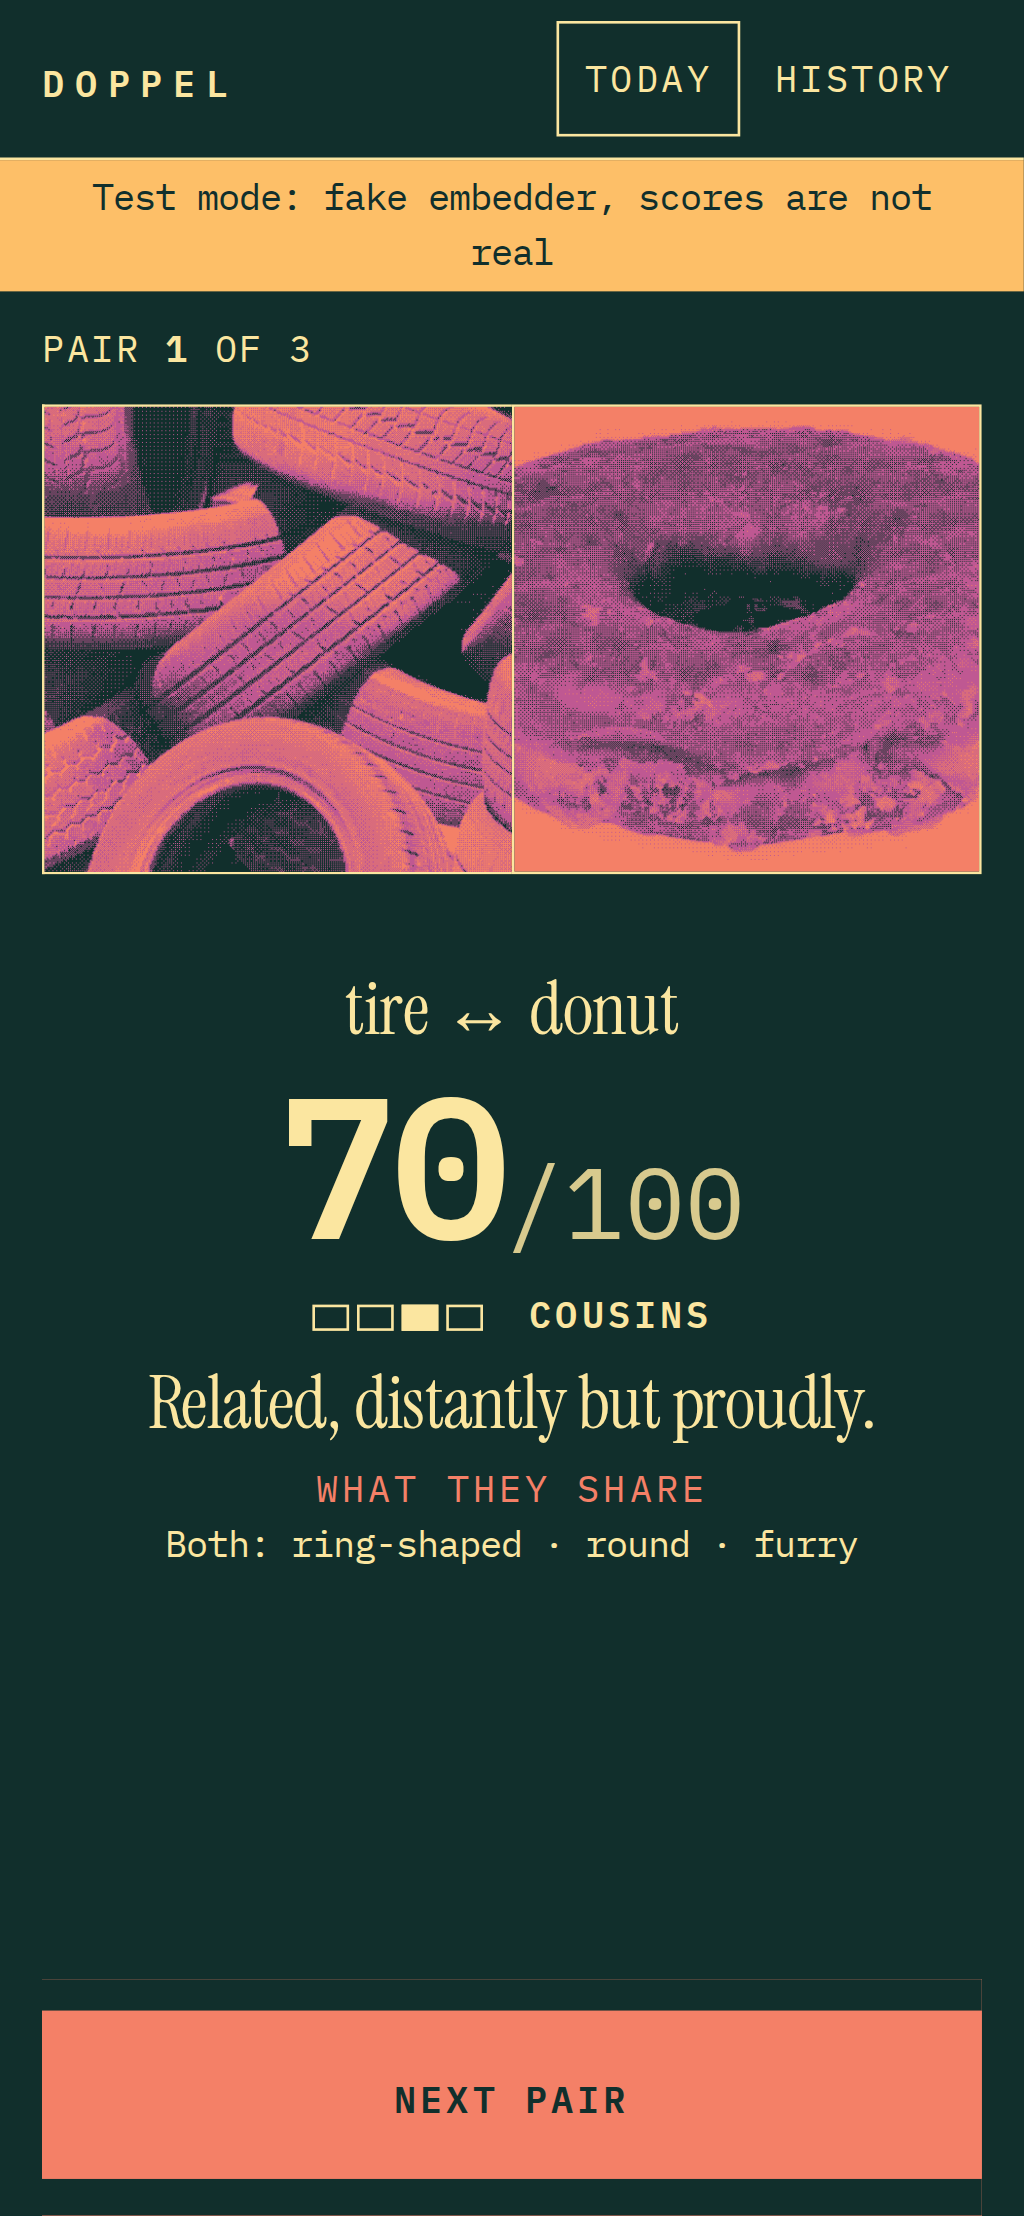
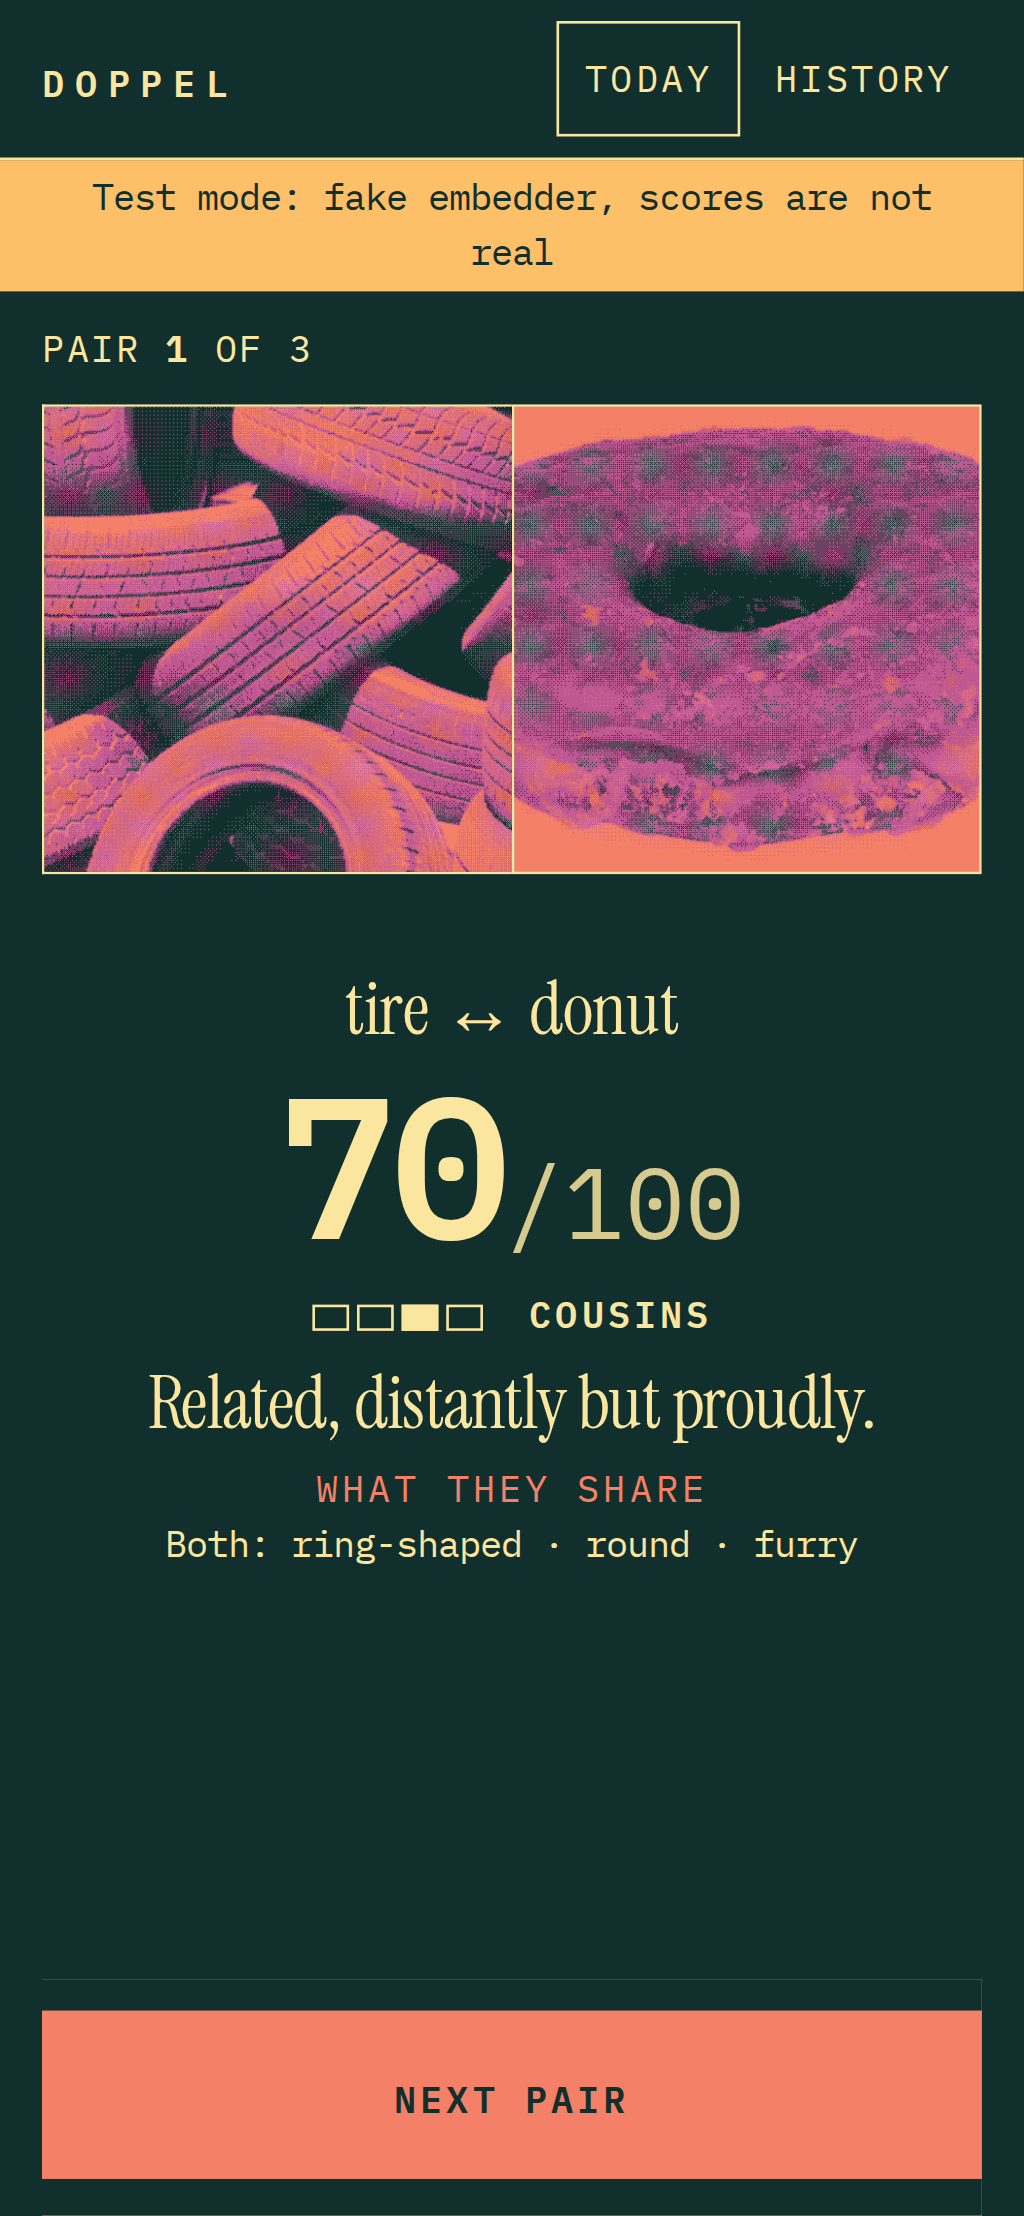
F5: real photos on confirmation and twin screens; reveal turns photos into prints; press and hold to see the original

Changed region(s): [[0.0312, 0.1868, 0.5, 0.4048]]

diff --git a/web/src/main.ts b/web/src/main.ts
@@ -9,7 +9,7 @@ import { clearAll, getDay, getMeta, getShot, listDays, newId, putDay, putShot, s
 import { getEmbedder, isFakeEmbedder, onModelProgress } from "./embed";
 import { fakePhotoVector } from "./embed/fake";
 import { ideasFor } from "./ideas";
-import { drawPrint, type Tone } from "./print";
+import { drawPhoto, drawPrint, type Tone } from "./print";
 import { registerPwa } from "./pwa";
 import { parseHash } from "./router";
 import { dayKey, nextDayStart, type Place } from "./sun";
@@ -88,11 +88,27 @@ const shotById = (id: string) => {
   if (!blobs.has(id)) blobs.set(id, getShot(id));
   return blobs.get(id)!;
 };
-async function printInto(canvas: HTMLCanvasElement | null, id: string | undefined, tone: Tone, side = 480) {
+
+/** Fill a print-over-photo stack. The print starts hidden unless `printed`. */
+async function fillStack(el: Element | null, id: string | undefined, tone: Tone, side = 480) {
+  if (!el || !id) return;
+  const s = await shotById(id);
+  if (!s) return;
+  await Promise.all([drawPhoto(el.querySelector<HTMLCanvasElement>(".photo")!, s.thumbBlob, side), drawPrint(el.querySelector<HTMLCanvasElement>(".print")!, s.thumbBlob, tone, side)]);
+}
+async function photoInto(canvas: HTMLCanvasElement | null, id: string | undefined, side = 480) {
   if (!canvas || !id) return;
   const s = await shotById(id);
-  if (s) await drawPrint(canvas, s.thumbBlob, tone, side);
+  if (s) await drawPhoto(canvas, s.thumbBlob, side);
 }
+
+// Press and hold a print to see the original photo (pointer, or Space/Enter when focused).
+const peek = (t: EventTarget | null, on: boolean) => (t as Element | null)?.closest?.(".stack")?.classList.toggle("peek", on);
+app.addEventListener("pointerdown", (e) => peek(e.target, true));
+for (const ev of ["pointerup", "pointercancel", "pointerleave", "pointerout"]) app.addEventListener(ev, (e) => peek(e.target, false));
+app.addEventListener("contextmenu", (e) => (e.target as Element).closest?.(".stack") && e.preventDefault());
+app.addEventListener("keydown", (e) => (e.key === " " || e.key === "Enter") && (e.target as Element).classList?.contains("stack") && (e.preventDefault(), peek(e.target, true)));
+app.addEventListener("keyup", (e) => (e.key === " " || e.key === "Enter") && peek(e.target, false));
 
 /** Count the score up from 0 over ~700 ms. */
 function countUp(el: HTMLElement | null) {
@@ -173,22 +189,27 @@ async function showToday(seq: number, force = false) {
   if (p.kind === "walking") {
     render(app, walkView(p.pair, pr.first!.label, p.walk, pr.first!.looks ?? [], pr.first!.alt));
     startGps();
-    return void printInto(app.querySelector("#print-a"), pr.first!.id, "neutral");
+    return void photoInto(app.querySelector("#photo-a"), pr.first!.id);
   }
   if (p.kind === "twin") {
     render(app, twinView(p.pair, pr.first!.label, pr.first!.looks ?? [], pr.first!.alt));
     startGps(); // keep counting metres until the twin is in
-    void printInto(app.querySelector("#print-a"), pr.first!.id, "neutral");
+    void photoInto(app.querySelector("#photo-a"), pr.first!.id);
     return wireShoot(seq, "twin");
   }
   if (p.kind === "reveal") {
     const done = pr as Required<typeof pr>;
     render(app, revealView(p.pair, done, p.pair >= 3));
     const tone = done.result.band;
-    await Promise.all([printInto(app.querySelector("#print-a"), done.first.id, tone), printInto(app.querySelector("#print-b"), done.twin.id, tone)]);
+    await Promise.all([fillStack(app.querySelector('[data-stack="a"]'), done.first.id, tone), fillStack(app.querySelector('[data-stack="b"]'), done.twin.id, tone)]);
     if (seq !== routeSeq) return;
-    app.querySelector("#pair")?.classList.add("met");
-    window.setTimeout(() => countUp(app.querySelector<HTMLElement>("[data-testid=score]")), reducedMotion ? 0 : 450);
+    // The two real photos slide together; then they turn into the print while the score counts up.
+    const pair = app.querySelector("#pair");
+    pair?.classList.add("met");
+    window.setTimeout(() => {
+      pair?.classList.add("printed");
+      countUp(app.querySelector<HTMLElement>("[data-testid=score]"));
+    }, reducedMotion ? 0 : 550);
     if (tone === "uncanny") navigator.vibrate?.(30);
     app.querySelector("#next")!.addEventListener("click", async () => {
       day = closeReveal(day!, Date.now());
@@ -202,10 +223,10 @@ async function showToday(seq: number, force = false) {
   const rows: DonePair[] = pairs.map((x) => ({ first: x.first.label, twin: x.twin.label, score: x.result.score, band: x.result.band }));
   const best = bestPair(day) ?? 0;
   render(app, doneView(rows, best, metersWalked(day), timeOfDay(nextDayStart(now, place)), !!place));
-  for (const c of app.querySelectorAll<HTMLCanvasElement>("canvas[data-print]")) {
-    const [i, side] = c.dataset.print!.split("-");
-    const x = pairs[Number(i)];
-    void printInto(c, side === "a" ? x.first.id : x.twin.id, x.result.band, c.closest(".best") ? 480 : 160);
+  for (const el of app.querySelectorAll<HTMLElement>("[data-stack]")) {
+    const [i, side] = el.dataset.stack!.split("-");
+    const x = pairs[i === "best" ? best : Number(i)];
+    void fillStack(el, side === "a" ? x.first.id : x.twin.id, x.result.band, i === "best" ? 480 : 160);
   }
 }
 
@@ -294,10 +315,10 @@ async function showHistory(seq: number) {
     .filter((x) => x.i !== undefined)
     .map(({ d, i }) => ({ d, p: donePairs(d)[i!] }));
   render(app, historyView(rows.map(({ d, p }) => ({ day: d.day, first: p.first.label, twin: p.twin.label, score: p.result.score, band: p.result.band }))));
-  for (const c of app.querySelectorAll<HTMLCanvasElement>("canvas[data-print]")) {
-    const [i, side] = c.dataset.print!.split("-");
+  for (const el of app.querySelectorAll<HTMLElement>("[data-stack]")) {
+    const [i, side] = el.dataset.stack!.split("-");
     const { p } = rows[Number(i)];
-    void printInto(c, side === "a" ? p.first.id : p.twin.id, p.result.band, 160);
+    void fillStack(el, side === "a" ? p.first.id : p.twin.id, p.result.band, 160);
   }
   app.querySelector("#delete-all")?.addEventListener("click", async () => {
     if (!confirm("Delete all photos and scores from this device? This can't be undone.")) return;

diff --git a/web/src/ui/screens.ts b/web/src/ui/screens.ts
@@ -33,6 +33,10 @@ const slot = (side: "a" | "b", inner: string, caption = "") => `
     <figcaption>${caption}</figcaption>
   </figure>`;
 
+/** A print over its original photo. Press and hold (or hold Space/Enter) shows the photo. */
+export const stack = (key: string, label: string) =>
+  `<span class="stack" data-stack="${esc(key)}" tabindex="0" role="img" aria-label="${esc(label)}, printed. Press and hold to see the photo."><canvas class="photo"></canvas><canvas class="print"></canvas></span>`;
+
 const sees = (label: string, alt?: string) => `Doppel sees: <b data-testid="sees">${esc(label)}${alt ? ` / ${esc(alt)}` : ""}</b>`;
 
 const shootButton = (text: string) => `
@@ -115,7 +119,7 @@ export function walkView(pair: number, label: string, w: WalkStatus, looks: stri
     <section class="screen walk" aria-label="Walk">
       ${hud(pair, `${w.meters} M WALKED`)}
       <div class="pair">
-        ${slot("a", `<canvas id="print-a" aria-label="Your first photo, printed"></canvas>`, sees(label, alt))}
+        ${slot("a", `<canvas id="photo-a" aria-label="Your first photo"></canvas>`, sees(label, alt))}
         ${slot("b", `<div class="countdown">${walkReadout(w)}</div>`, "its twin")}
       </div>
       <h1 class="voice">Find its twin. Walk.</h1>
@@ -140,7 +144,7 @@ export function twinView(pair: number, label: string, looks: string[] = [], alt?
     <section class="screen twin" aria-label="Twin photo">
       ${hud(pair)}
       <div class="pair">
-        ${slot("a", `<canvas id="print-a" aria-label="Your first photo, printed"></canvas>`, sees(label, alt))}
+        ${slot("a", `<canvas id="photo-a" aria-label="Your first photo"></canvas>`, sees(label, alt))}
         ${slot("b", `<span class="slot-word">?</span>`, "its twin")}
       </div>
       <h1 class="voice">Now its twin.</h1>
@@ -156,8 +160,8 @@ export function revealView(pair: number, p: Required<Pick<PairState, "first" | "
     <section class="screen reveal" aria-label="Reveal" data-band="${r.band}">
       ${hud(pair)}
       <div class="pair together" id="pair">
-        ${slot("a", `<canvas id="print-a" aria-label="${esc(p.first.label)}, printed"></canvas>`)}
-        ${slot("b", `<canvas id="print-b" aria-label="${esc(p.twin.label)}, printed"></canvas>`)}
+        ${slot("a", stack("a", p.first.label))}
+        ${slot("b", stack("b", p.twin.label))}
       </div>
       <p class="labels" data-testid="labels">${esc(p.first.label)} <span aria-label="and">↔</span> ${esc(p.twin.label)}</p>
       <p class="score" data-testid="score" data-value="${r.score}"><span class="n">${r.score}</span><span class="of">/100</span></p>
@@ -182,8 +186,8 @@ export function doneView(pairs: DonePair[], best: number, meters: number, nextDa
       <div class="hud"><span>DONE FOR TODAY</span><span data-testid="walked">${meters} M WALKED</span></div>
       <p class="label">TODAY'S DOPPEL</p>
       <div class="pair together best">
-        ${slot("a", `<canvas data-print="${best}-a" aria-label="${esc(b.first)}, printed"></canvas>`)}
-        ${slot("b", `<canvas data-print="${best}-b" aria-label="${esc(b.twin)}, printed"></canvas>`)}
+        ${slot("a", stack(`best-a`, b.first))}
+        ${slot("b", stack(`best-b`, b.twin))}
       </div>
       <p class="labels" data-testid="best">${esc(b.first)} ↔ ${esc(b.twin)}</p>
       <p class="band"><b>${b.score}</b>/100 · ${bandMarks(b.band)} ${BAND_NAMES[b.band].toUpperCase()}</p>
@@ -191,7 +195,7 @@ export function doneView(pairs: DonePair[], best: number, meters: number, nextDa
       <ol class="pairs" aria-label="Today's pairs">
         ${pairs.map((p, i) => `
           <li${i === best ? ` class="is-best"` : ""}>
-            <canvas data-print="${i}-a" aria-hidden="true"></canvas><canvas data-print="${i}-b" aria-hidden="true"></canvas>
+            ${stack(`${i}-a`, p.first)}${stack(`${i}-b`, p.twin)}
             <span>${esc(p.first)} ↔ ${esc(p.twin)}</span><b>${p.score}</b>
           </li>`).join("")}
       </ol>
@@ -218,7 +222,7 @@ export function historyView(rows: HistoryRow[]): string {
       ${rows.length === 0
         ? `<p class="sub">Nothing yet. <a href="${href.today()}">Today</a> is waiting.</p>`
         : `<ol class="pairs">${rows.map((r, i) => `
-            <li><canvas data-print="${i}-a" aria-hidden="true"></canvas><canvas data-print="${i}-b" aria-hidden="true"></canvas>
+            <li>${stack(`${i}-a`, r.first)}${stack(`${i}-b`, r.twin)}
               <span>${esc(dayLabel(r.day))}: ${esc(r.first)} ↔ ${esc(r.twin)}</span><b>${r.score}</b></li>`).join("")}</ol>
           <p class="sub">Photos and scores are stored only on this device.</p>
           <p><button class="btn btn-quiet" id="delete-all" type="button">Delete everything</button></p>`}

diff --git a/web/tests/e2e/photos.spec.ts b/web/tests/e2e/photos.spec.ts
@@ -1,0 +1,85 @@
+import { expect, test, type Locator, type Page } from "@playwright/test";
+import path from "node:path";
+import { expectAccessible, fixture } from "./helpers";
+
+const MEDIA = path.join(import.meta.dirname, "../../../docs/media");
+
+/** Number of distinct colors on a canvas: a print has 3 inks, a photo hundreds. */
+const colors = (c: Locator) =>
+  c.evaluate((el: HTMLCanvasElement) => {
+    const d = el.getContext("2d")!.getImageData(0, 0, el.width, el.height).data;
+    const s = new Set<number>();
+    for (let i = 0; i < d.length; i += 4) s.add((d[i] << 16) | (d[i + 1] << 8) | d[i + 2]);
+    return s.size;
+  });
+const opacity = (l: Locator) => l.evaluate((el) => getComputedStyle(el).opacity);
+
+async function toReveal(page: Page) {
+  await page.clock.install({ time: new Date("2026-10-11T15:00:00-04:00") });
+  await page.goto("/?embedder=fake#/");
+  await expect(page.locator("#photo")).toBeEnabled();
+  await page.locator("#photo").setInputFiles(fixture("twins/03-tree-bark.jpg"));
+  await expect(page.getByRole("region", { name: "Walk" })).toBeVisible();
+}
+
+test("confirmation shows the real photo; the reveal turns photos into prints; hold shows the photo", async ({ page }) => {
+  await toReveal(page);
+  const first = page.locator("#photo-a");
+  await expect.poll(() => colors(first)).toBeGreaterThan(200); // untinted
+  await page.clock.runFor(500);
+  await page.screenshot({ path: path.join(MEDIA, "f5-confirmation-original.png") });
+  await page.clock.fastForward(46_000);
+  await expect(page.getByRole("region", { name: "Twin photo" })).toBeVisible();
+  await expect.poll(() => colors(page.locator("#photo-a"))).toBeGreaterThan(200);
+  await page.locator("#photo").setInputFiles(fixture("twins/03-elephant-skin.jpg"));
+  await expect(page.getByRole("region", { name: "Reveal" })).toBeVisible();
+
+  const a = page.locator('[data-stack="a"]');
+  await expect.poll(() => colors(a.locator(".print"))).toBeLessThanOrEqual(3);
+  await expect.poll(() => colors(a.locator(".photo"))).toBeGreaterThan(200);
+  expect(await opacity(a.locator(".print"))).toBe("0"); // photos first
+  await page.clock.runFor(2000);
+  await expect.poll(() => opacity(a.locator(".print"))).toBe("1"); // then the print
+  await page.screenshot({ path: path.join(MEDIA, "f5-reveal-print.png") });
+  await expectAccessible(page, "reveal");
+
+  const box = (await a.boundingBox())!;
+  await page.mouse.move(box.x + box.width / 2, box.y + box.height / 2);
+  await page.mouse.down();
+  await expect.poll(() => opacity(a.locator(".print"))).toBe("0");
+  await page.screenshot({ path: path.join(MEDIA, "f5-hold-original.png") });
+  await page.mouse.up();
+  await expect.poll(() => opacity(a.locator(".print"))).toBe("1");
+
+  // keyboard: hold Space on the focused print
+  await a.focus();
+  await page.keyboard.down(" ");
+  await expect.poll(() => opacity(a.locator(".print"))).toBe("0");
+  await page.keyboard.up(" ");
+  await expect.poll(() => opacity(a.locator(".print"))).toBe("1");
+
+  // History: same hold
+  await page.getByRole("button", { name: "Next pair" }).click();
+  await page.goto("/?embedder=fake#/history");
+  await expect(page.locator(".pairs li")).toHaveCount(1);
+  const h = page.locator('[data-stack="0-a"]');
+  await expect.poll(() => colors(h.locator(".print"))).toBeLessThanOrEqual(3);
+  await expect.poll(() => opacity(h.locator(".print"))).toBe("1");
+  const hb = (await h.boundingBox())!;
+  await page.mouse.move(hb.x + hb.width / 2, hb.y + hb.height / 2);
+  await page.mouse.down();
+  await expect.poll(() => opacity(h.locator(".print"))).toBe("0");
+  await page.mouse.up();
+  await expect.poll(() => opacity(h.locator(".print"))).toBe("1");
+  await expectAccessible(page, "history");
+});
+
+test("reduced motion: the reveal goes straight to the print", async ({ page }) => {
+  await page.emulateMedia({ reducedMotion: "reduce" });
+  await toReveal(page);
+  await page.clock.fastForward(46_000);
+  await page.locator("#photo").setInputFiles(fixture("twins/03-elephant-skin.jpg"));
+  await expect(page.getByRole("region", { name: "Reveal" })).toBeVisible();
+  await page.clock.runFor(50);
+  await expect.poll(() => opacity(page.locator('[data-stack="a"] .print'))).toBe("1");
+});

diff --git a/web/src/style.css b/web/src/style.css
@@ -70,6 +70,15 @@ main { max-width: 520px; margin: 0 auto; padding: 0 var(--gutter); outline: none
 .countdown { display: flex; flex-direction: column; align-items: center; gap: 4px; line-height: 1.1; text-align: center; padding: 8px; }
 .countdown .big { font-size: var(--t-l); font-weight: 600; font-variant-numeric: tabular-nums; }
 
+/* print over photo: the reveal turns photos into prints; press and hold shows the photo again */
+.stack { position: relative; display: block; width: 100%; height: 100%; touch-action: none; -webkit-user-select: none; user-select: none; -webkit-touch-callout: none; }
+.stack canvas { position: absolute; inset: 0; width: 100%; height: 100%; display: block; }
+.stack .print { opacity: 1; }
+.reveal .pair:not(.printed) .stack .print { opacity: 0; }
+.reveal .pair.printed .stack .print { transition: opacity .7s ease-in-out; }
+.stack.peek .print, .reveal .pair.printed .stack.peek .print { opacity: 0; transition: none; }
+.stack:focus-visible { outline-offset: -2px; }
+
 /* reveal: the prints slide together until they touch, then the score counts up */
 .pair.together { gap: 0; }
 .pair.together .slot.a .frame { border-right-width: 0; }
@@ -153,7 +162,7 @@ body[data-phase="walking"] .topbar, body[data-phase="walking"] .test-banner { di
   padding: 6px 0; border-top: var(--rule);
 }
 .pairs li:last-child { border-bottom: var(--rule); }
-.pairs canvas { width: 48px; height: 48px; display: block; }
+.pairs .stack { width: 48px; height: 48px; }
 .pairs span { padding: 0 10px; overflow-wrap: anywhere; }
 .pairs b { font-variant-numeric: tabular-nums; }
 .pairs li.is-best b { color: var(--accent); }
@@ -169,6 +178,7 @@ body[data-phase="walking"] .topbar, body[data-phase="walking"] .test-banner { di
 @keyframes pulse { 50% { opacity: .3; } }
 @media (prefers-reduced-motion: reduce) {
   .pair.together .slot { transform: none !important; opacity: 1 !important; transition: none !important; }
+  .reveal .pair .stack .print { transition: none !important; }
   .progress > div, .walkbar > div { transition: none; }
   .btn.is-busy::before { animation: none; }
 }

diff --git a/web/src/print.ts b/web/src/print.ts
@@ -58,6 +58,15 @@ export function printPixels(px: Uint8ClampedArray, width: number, tone: Tone) {
   }
 }
 
+/** Draw `blob` into `canvas` untinted, cropped to a square (cover) of `side` px: the photo as taken. */
+export async function drawPhoto(canvas: HTMLCanvasElement, blob: Blob, side = 480) {
+  const bmp = await createImageBitmap(blob);
+  const s = Math.min(bmp.width, bmp.height);
+  canvas.width = canvas.height = side;
+  canvas.getContext("2d")!.drawImage(bmp, (bmp.width - s) / 2, (bmp.height - s) / 2, s, s, 0, 0, side, side);
+  bmp.close();
+}
+
 /** Draw `blob` into `canvas` as a print, cropped to a square (cover) of `side` px. */
 export async function drawPrint(canvas: HTMLCanvasElement, blob: Blob, tone: Tone, side = 480) {
   const bmp = await createImageBitmap(blob);
